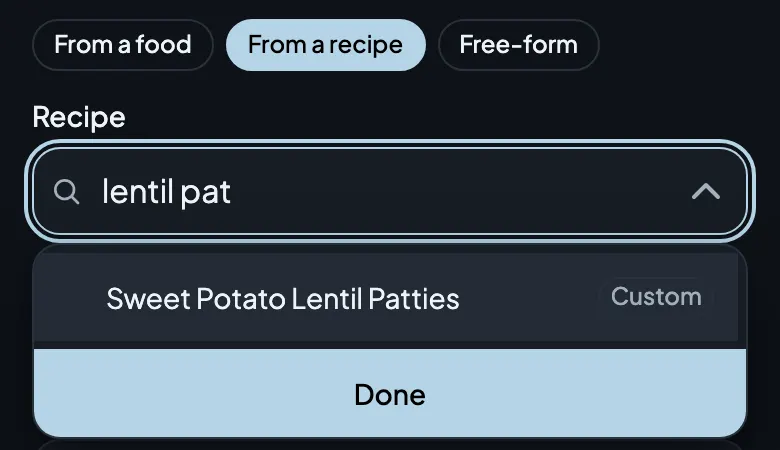
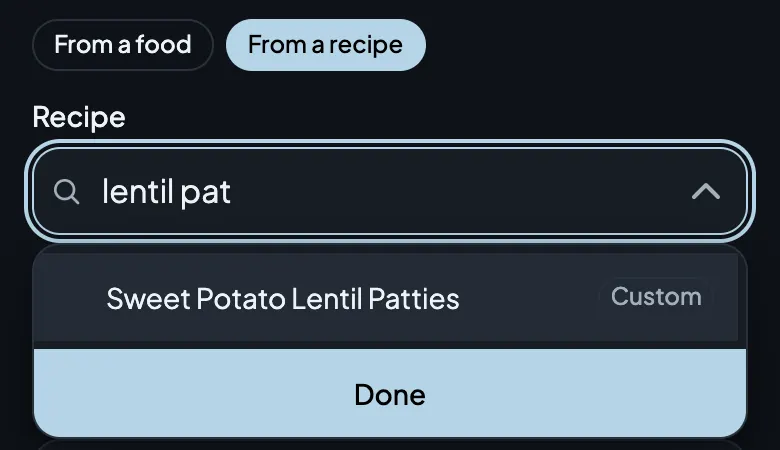
Guides: storage steps 1/2/4 and log-a-meal stars step, as approved (732)
Owner-approved text, word for word:
- how-to-add-to-storage step 1: "Pick what you're storing: a food or a
  recipe. Search and tap your pick, or several foods for a mixed container.
  If a food isn't in the list, the search offers to add it as a custom
  food." (both Free-form sentences gone)
- step 2: "Tap **Fridge**, **Freezer**, or **Counter**. Change the prepared
  time if you made it earlier."
- step 4: "When complete, your item is listed on the **Storage** page with
  the servings left and when to use it by."
- how-to-log-a-meal stars step: "Tap one to five stars, five for a big hit."

storage-1-what.webp and -dark.webp retaken after 731 (From a food / From a
recipe only), same pipeline and crop as the committed pair (located against
the old light image: offset 295, 780x450; MAD 1.99 = the missing chip).
Alt text unchanged. The serve guide is untouched (waits for 730).

content.test.ts pins the four texts exactly and that no guide mentions
Free-form.

Changed region(s): [[0.5846, 0.0311, 0.7692, 0.1244]]

diff --git a/client/src/features/safety/content.test.ts b/client/src/features/safety/content.test.ts
@@ -7,7 +7,6 @@ import { MemoryRouter } from "react-router-dom";
 import { afterEach, describe, expect, it, vi } from "vitest";
 import { getGuide, getSafetyArticle, guideArticles, safetyArticles } from "./content.js";
 import { Markdown } from "../../lib/markdown/Markdown.js";
-import { resolveStorageItemMenuActions } from "../storage/format.js";
 
 const EXPECTED_SLUGS = [
   "gagging-vs-choking",
@@ -105,13 +104,22 @@ describe("how-to guides (item 601)", () => {
     }
   });
 
-  it("add-to-storage step 1 only asks for Done on the multi-select food path (the recipe picker closes on tap)", () => {
-    const body = getGuide("how-to-add-to-storage")?.body ?? "";
-    const step1 = body.split(/^## /m).find((s) => s.startsWith("1. ")) ?? "";
-    expect(step1).toContain("The recipe list closes by itself.");
-    expect(step1).toMatch(/For foods you can pick several, then tap \*\*Done\*\*\./);
-    expect(step1).not.toContain("tap your pick, then tap **Done**");
-    expect(body).toContain("Use within 90d");
+  // Item 732: owner-approved step text, word for word.
+  it("add-to-storage steps 1, 2 and 4 and log-a-meal's stars step read exactly as approved", () => {
+    const steps = (slug: string) => (getGuide(slug)?.body ?? "").split(/^## /m);
+    const storage = steps("how-to-add-to-storage");
+    expect(storage.find((s) => s.startsWith("1. "))).toContain(
+      "\n\nPick what you're storing: a food or a recipe. Search and tap your pick, or several foods for a mixed container. If a food isn't in the list, the search offers to add it as a custom food.\n\n",
+    );
+    expect(storage.find((s) => s.startsWith("2. "))).toContain(
+      "\n\nTap **Fridge**, **Freezer**, or **Counter**. Change the prepared time if you made it earlier.\n\n",
+    );
+    expect(storage.find((s) => s.startsWith("4. "))).toContain(
+      "\n\nWhen complete, your item is listed on the **Storage** page with the servings left and when to use it by.\n\n",
+    );
+    expect(getGuide("how-to-add-to-storage")?.body).toContain("Use within 90d");
+    const stars = steps("how-to-log-a-meal").find((s) => s.startsWith("3. ")) ?? "";
+    expect(stars).toContain("\n\nTap one to five stars, five for a big hit.\n\n");
   });
 
   // Item 725: a guide is opened from the form it explains (its HowToLink) or
@@ -144,17 +152,9 @@ describe("how-to guides (item 601)", () => {
     }
   });
 
-  it("add-to-storage warns that Free-form items have no Serve (label-only items withhold it)", () => {
-    // The add-to-storage guide offers Free-form; resolveStorageItemMenuActions
-    // gives a label-only item only Edit and Remove, so the step that offers
-    // it says so (item 725; it used to sit in the serve guide's retired step 1).
-    expect(resolveStorageItemMenuActions({ status: "active", foods: [], recipeTitle: null }).serve).toBe(false);
-    const body = getGuide("how-to-add-to-storage")?.body ?? "";
-    const step1 = body.split(/^## /m).find((s) => s.startsWith("1. ")) ?? "";
-    expect(step1).toContain(
-      "For foods you can pick several, then tap **Done**. **Free-form** items can't be served, so tap **Remove** when they're used up.",
-    );
-    expect(getGuide("how-to-serve-from-storage")?.body).not.toContain("Free-form");
+  // Item 731: Add to storage no longer offers Free-form, so no guide does.
+  it("no guide mentions Free-form", () => {
+    for (const guide of guideArticles) expect(guide.body, guide.slug).not.toContain("Free-form");
   });
 
   it("renders every screenshot as an <img> with its alt text", () => {
